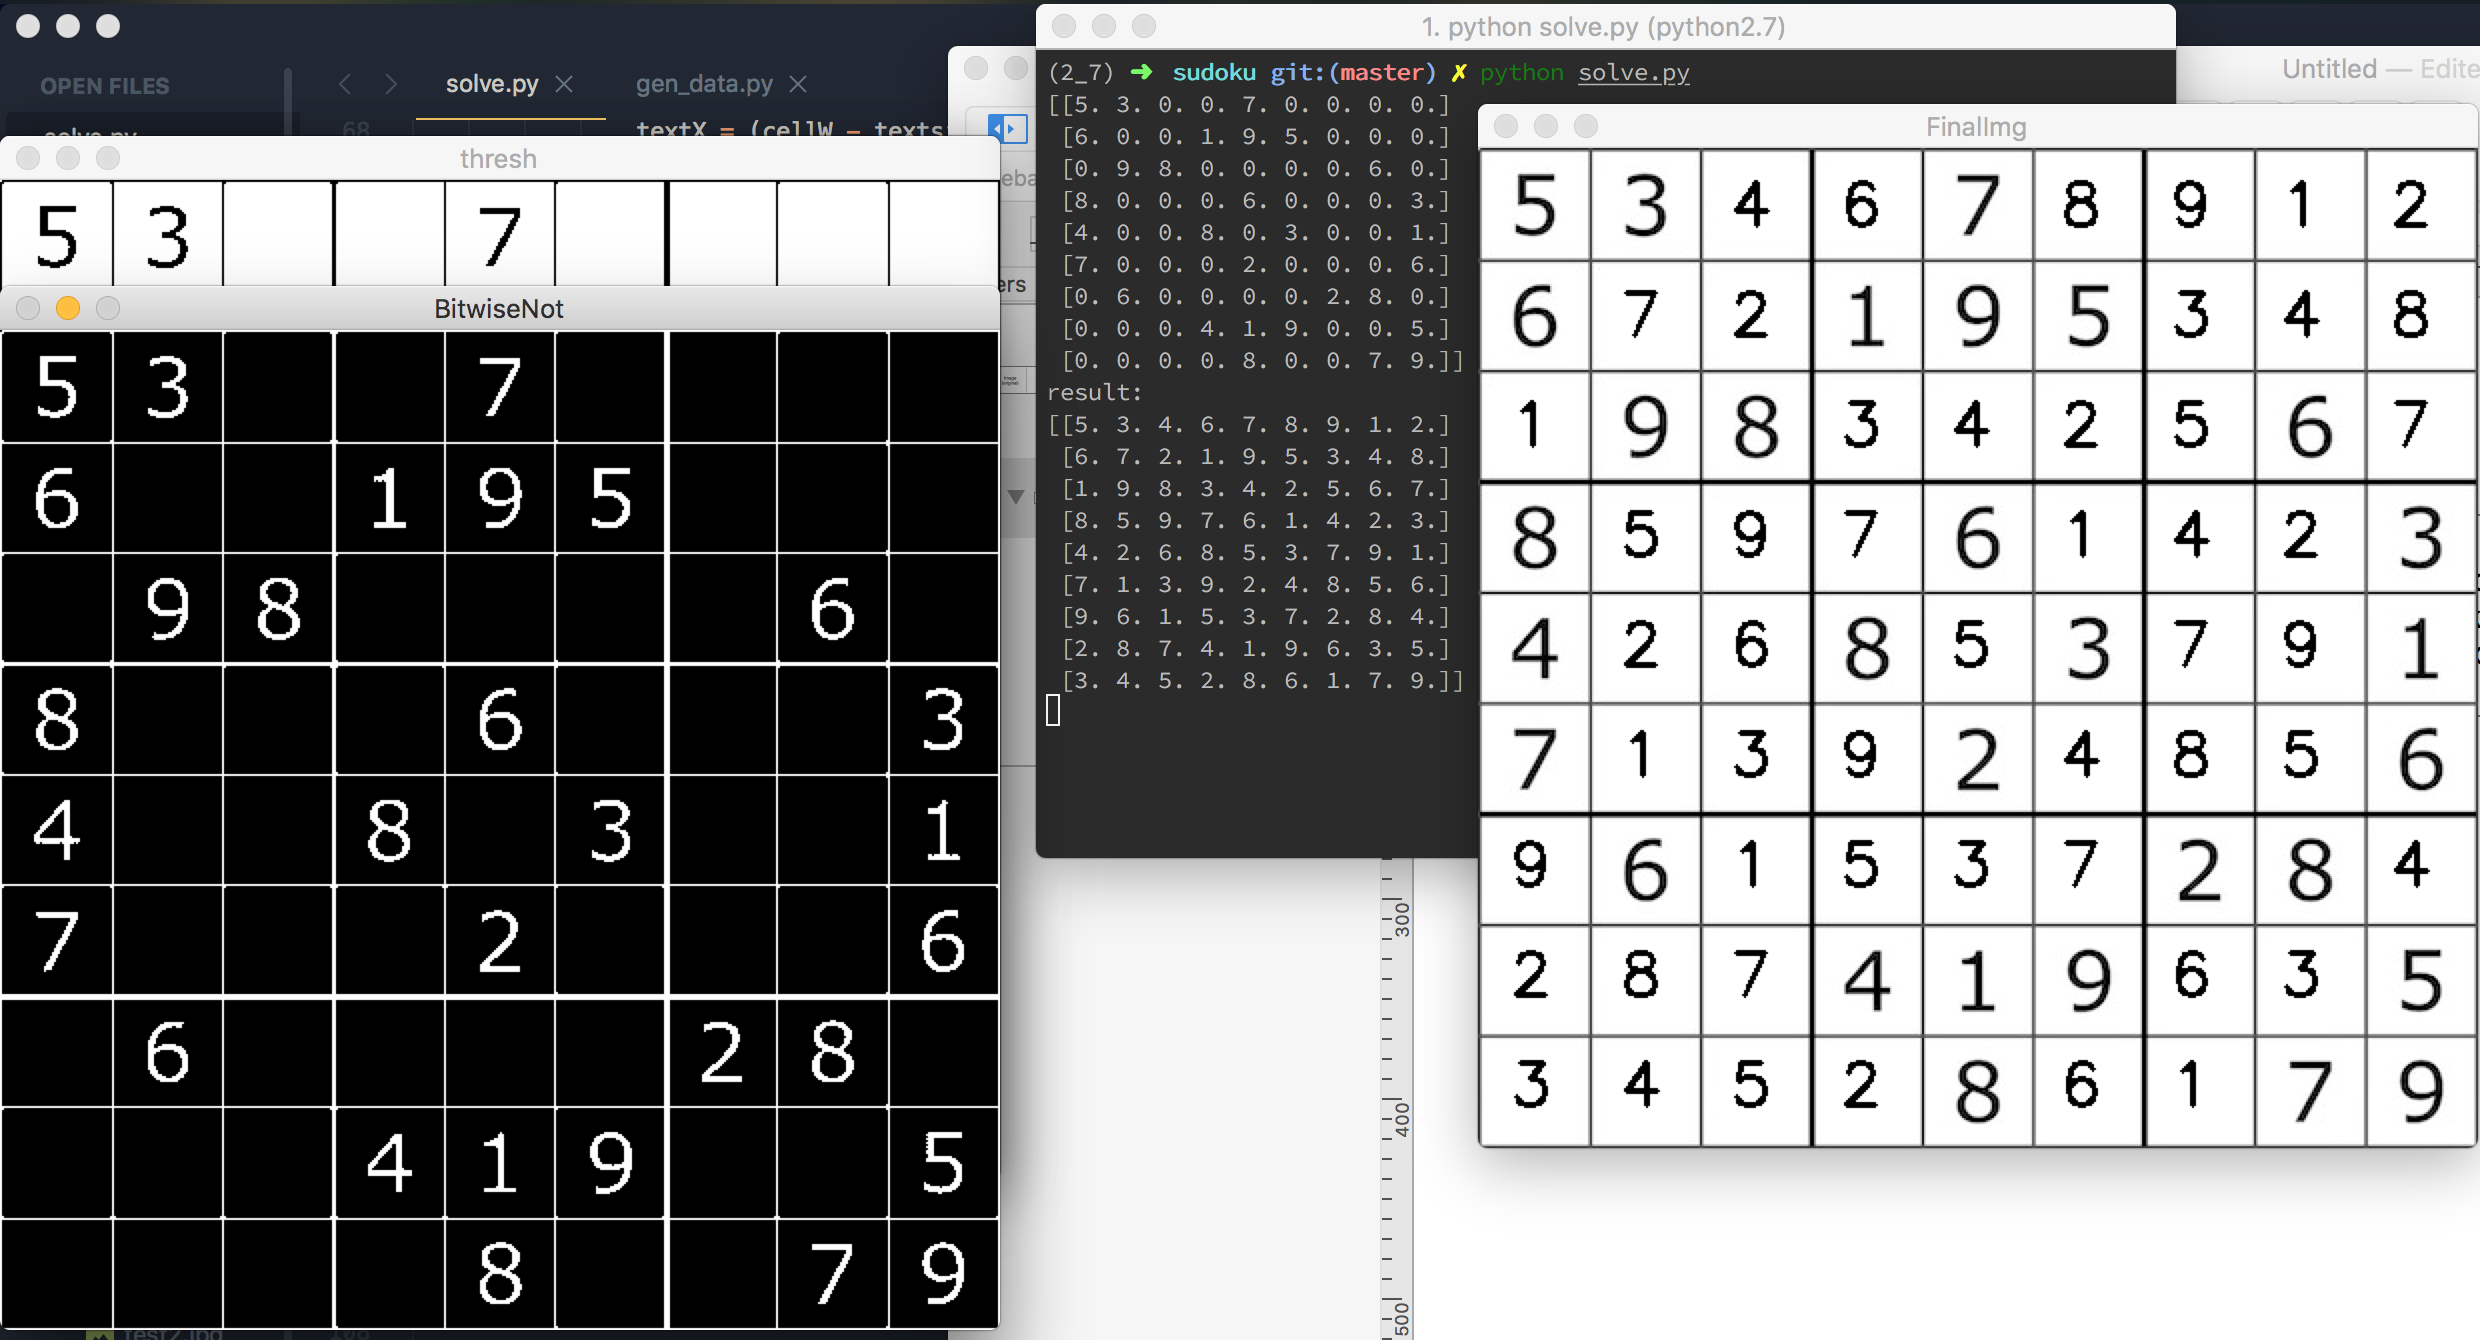
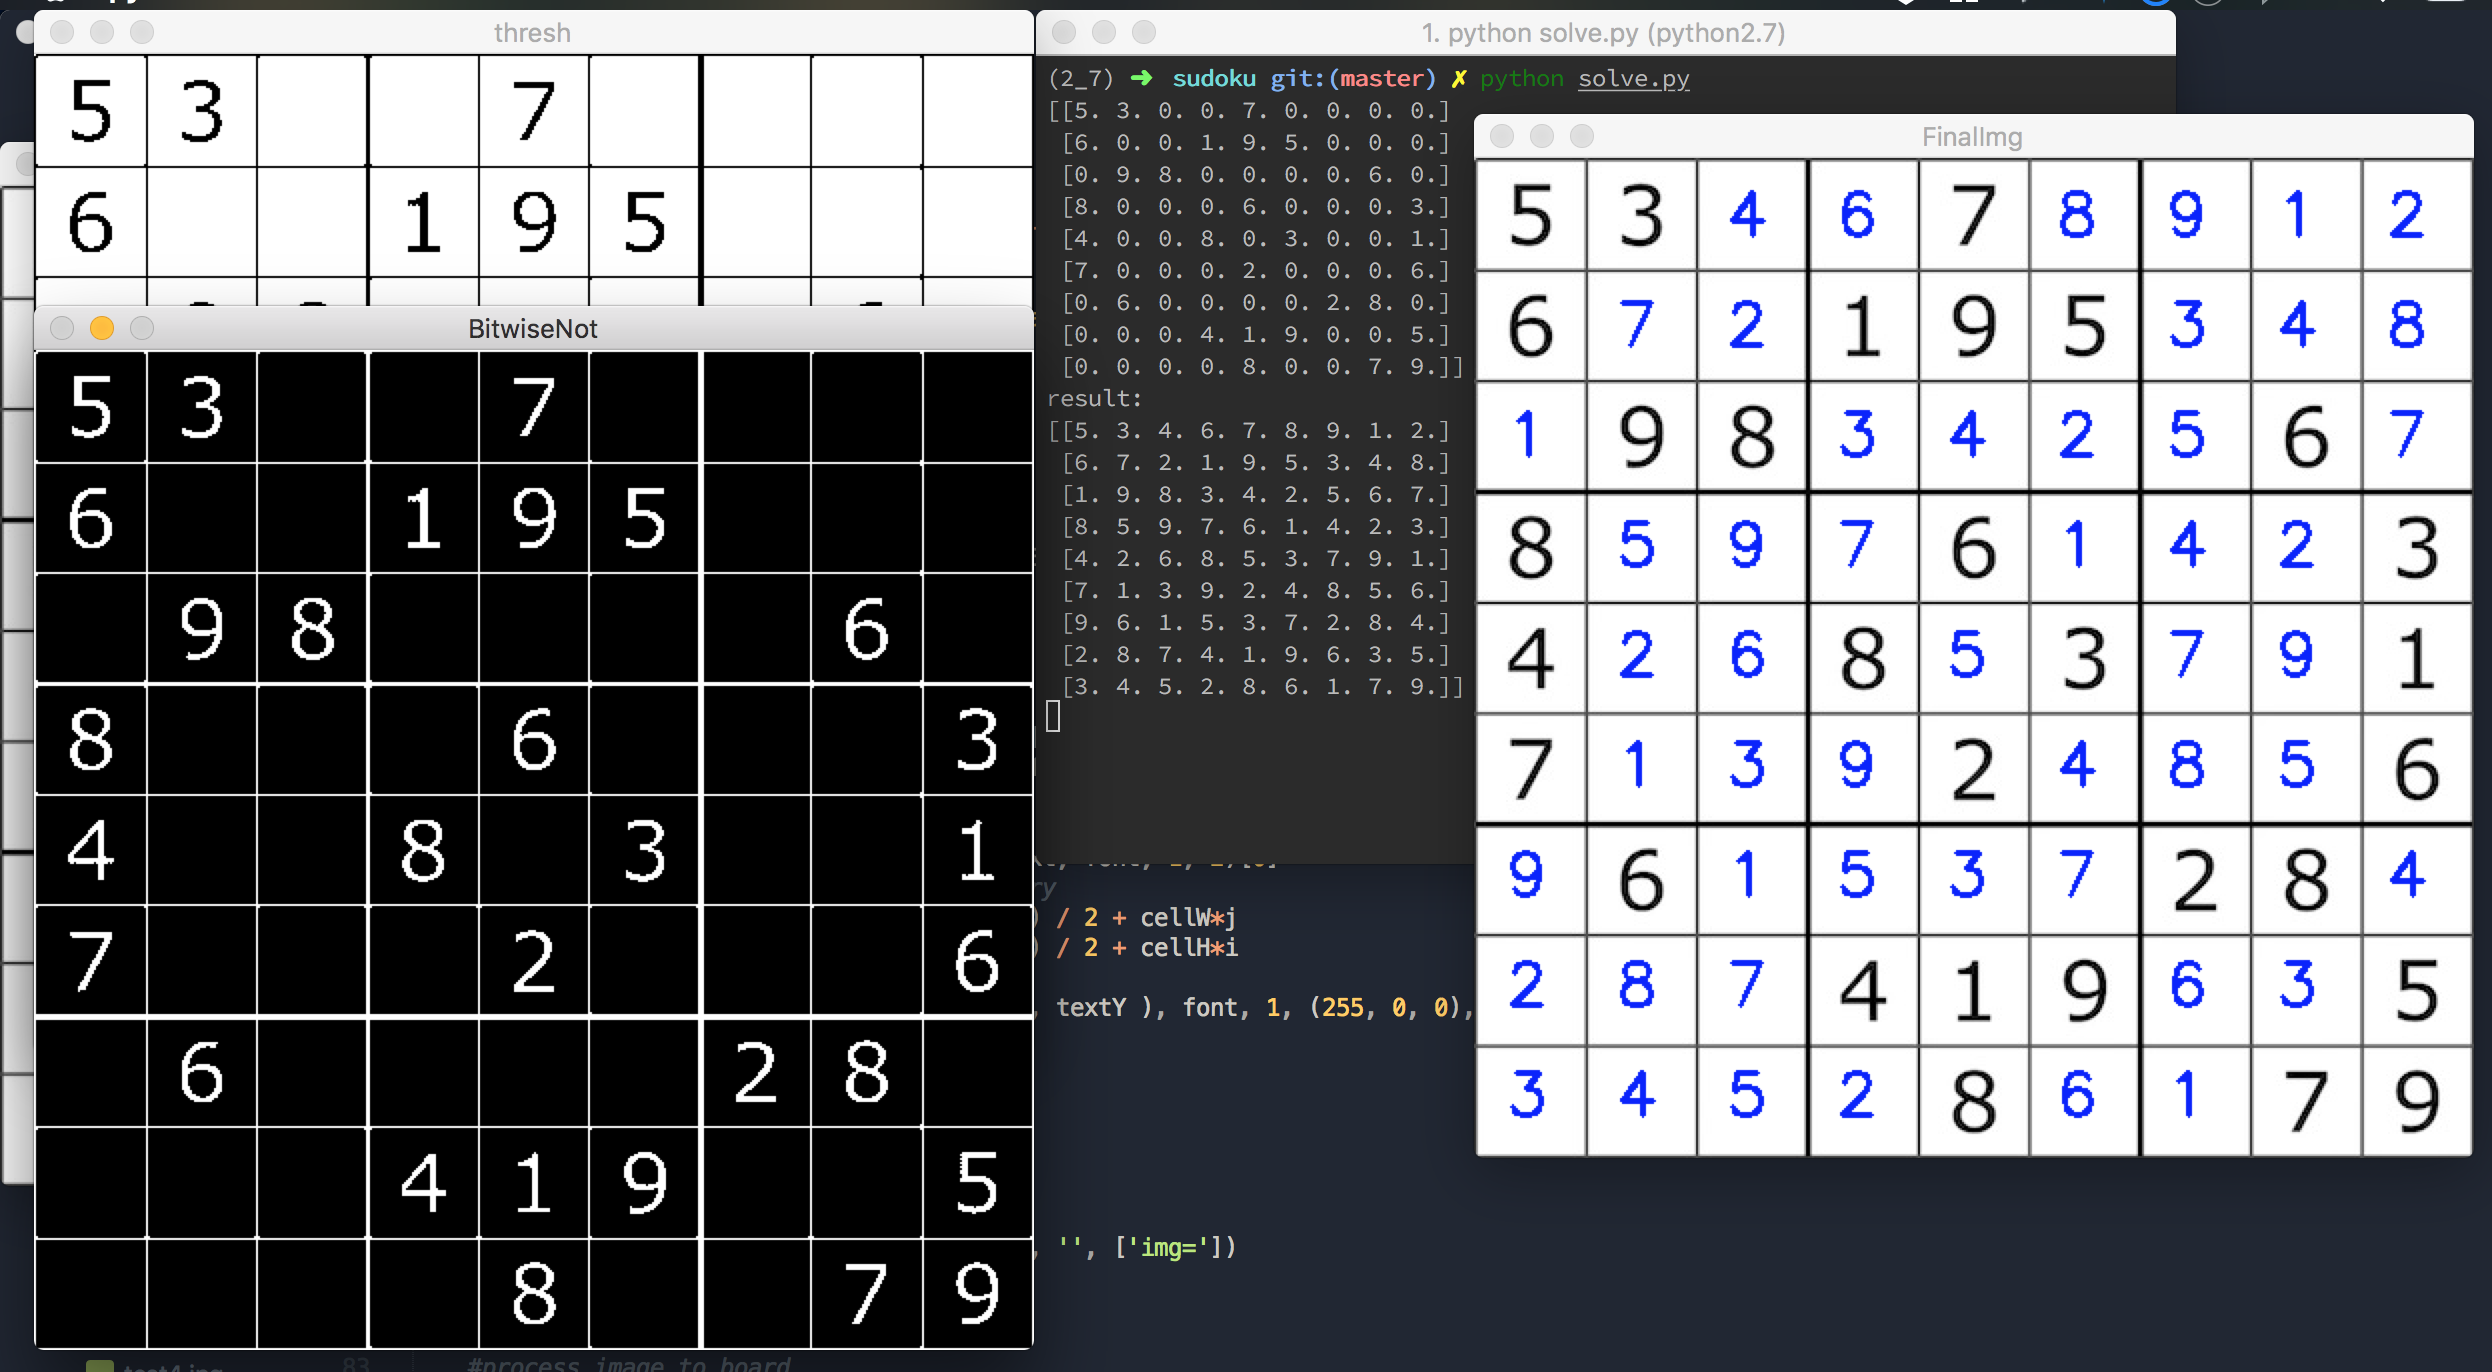
update

diff --git a/sudoku/solve.py b/sudoku/solve.py
@@ -12,7 +12,7 @@ def preprocessImg(image):
 	# gray = cv.GaussianBlur(gray, (11, 11), 0)
 	# outerBox = cv.adaptiveThreshold(gray, 255, cv.ADAPTIVE_THRESH_MEAN_C, cv.THRESH_BINARY, 5, 2)
 	ret,thresh = cv.threshold(gray,128,255,cv.THRESH_BINARY)
-	cv.imshow('thresh', thresh)
+	# cv.imshow('thresh', thresh)
 	outerBox = cv.bitwise_not(thresh)
 	cv.imshow('BitwiseNot', outerBox)
 	return outerBox
@@ -32,8 +32,8 @@ def getRoi(box):
             roi = cv.resize(roi,(50,50))
 
             #draw bounding rect
-            # roir = cv.rectangle(np.copy(box),(x,y),(x+w,y+h),(255,0,0),1)
-            # cv.imshow('box', roir)
+            roir = cv.rectangle(np.copy(box),(x,y),(x+w,y+h),(255,0,0),1)
+            # cv.imshow('roir', roir)
             
             return roi
     return n10()
@@ -68,7 +68,7 @@ def decorBoard2Img(img, originBoard, solveBoard):
 				textX = (cellW - textsize[0]) / 2 + cellW*j
 				textY = (cellH + textsize[1]) / 2 + cellH*i
 				# add text centered on image
-				cv.putText(img, text, (textX, textY ), font, 1, (0, 0, 0), 2)
+				cv.putText(img, text, (textX, textY ), font, 1, (255, 0, 0), 2)
 	cv.imshow('FinalImg', img)
 
 
@@ -89,7 +89,8 @@ if __name__ == '__main__':
 			box = getBox(outerBox, i,j)
 			roi = getRoi(box)
 			imgBoard = np.append(imgBoard, [roi.ravel()], axis=0)
-			# cv.imshow("box {0}x{1}".format(i, j), roi)
+			# cv.imshow("box {0}x{1}".format(i, j), box)
+			# cv.imshow("roi {0}x{1}".format(i, j), roi)
 
 	board = letter_recog.recogBoard(imgBoard)
 	board = np.reshape(board, (-1, 9 if len(board) > 9 else len(board)))
